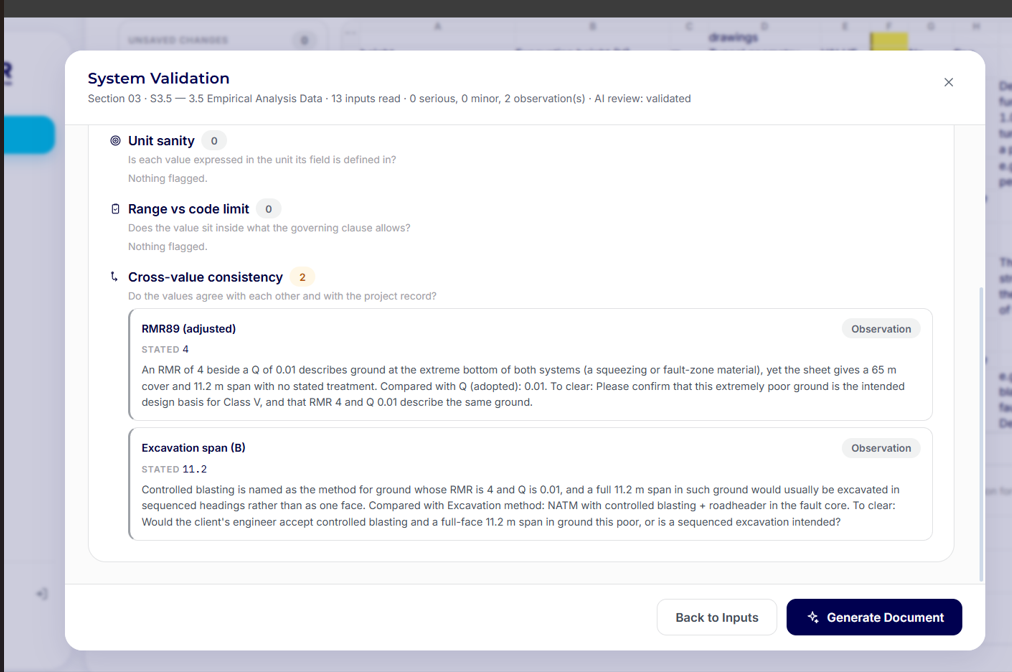
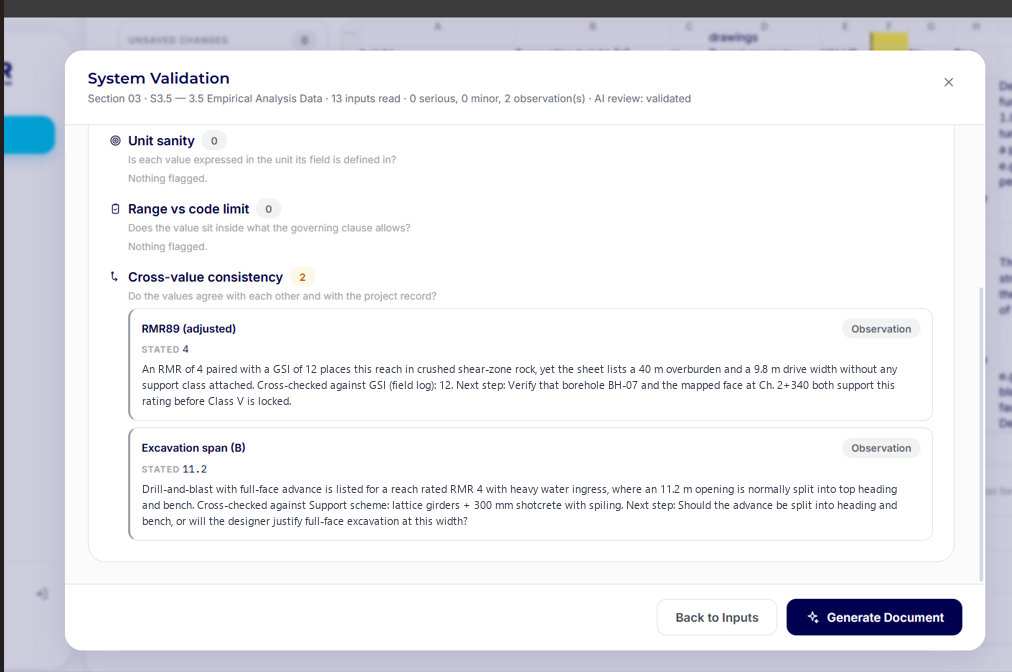
Update BeaverCaseStudy images: replace old screenshots with new versions for improved clarity and accuracy

Changed region(s): [[0.1225, 0.5312, 0.8883, 0.625], [0.1225, 0.7188, 0.8883, 0.7812]]

diff --git a/src/components/organisms/BeaverCaseStudy/BeaverCaseStudy.tsx b/src/components/organisms/BeaverCaseStudy/BeaverCaseStudy.tsx
@@ -456,7 +456,7 @@ export default function BeaverCaseStudy(_props: BeaverCaseStudyProps) {
           </p>
 
           <Shot
-            src="01_Screenshot1_Input_Sheet_Section3.1.png"
+            src="01_Screenshot1_Input_Sheet_Section3.1_v2.png"
             width={1112}
             height={572}
             title="Screenshot 1 — The input sheet."
@@ -464,7 +464,7 @@ export default function BeaverCaseStudy(_props: BeaverCaseStudyProps) {
             caption="Section 3.1 input sheet: locked metadata, a yellow Value column, and a repeating block for each reach."
           />
           <Shot
-            src="02_Screenshot2_Excel_Input_Step.png"
+            src="02_Screenshot2_Excel_Input_Step_v2.png"
             width={1917}
             height={931}
             title="Screenshot 2 — The Excel Input step."
@@ -472,7 +472,7 @@ export default function BeaverCaseStudy(_props: BeaverCaseStudyProps) {
             caption="Excel Input step for Section 1 — Introduction: sheet versions, validation state and the sheet grid."
           />
           <Shot
-            src="03_Screenshot3_Staged_Edits.png"
+            src="03_Screenshot3_Staged_Edits_v2.png"
             width={1917}
             height={925}
             title="Screenshot 3 — Staged edits."
@@ -488,7 +488,7 @@ export default function BeaverCaseStudy(_props: BeaverCaseStudyProps) {
             caption="The five validation stages shown to the engineer while the sheet is checked."
           />
           <Shot
-            src="05_Screenshot5_System_Validation.png"
+            src="05_Screenshot5_System_Validation_v2.png"
             width={1012}
             height={672}
             title="Screenshot 5 — System Validation."
@@ -496,7 +496,7 @@ export default function BeaverCaseStudy(_props: BeaverCaseStudyProps) {
             caption="System Validation for Section 3.5: 13 inputs read, 0 serious, 0 minor, 2 observations; AI review validated."
           />
           <Shot
-            src="06_Screenshot6_Review_Anchored_Comments.png"
+            src="06_Screenshot6_Review_Anchored_Comments_v2.png"
             width={1917}
             height={930}
             title="Screenshot 6 — Review with anchored comments."
@@ -512,7 +512,7 @@ export default function BeaverCaseStudy(_props: BeaverCaseStudyProps) {
             caption="Issue step for Section 3.1: internal V1 and client C0 numbered separately, with release actions."
           />
           <Shot
-            src="08_Screenshot8_Comparison_Real_Pages.png"
+            src="08_Screenshot8_Comparison_Real_Pages_v3.png"
             width={1917}
             height={922}
             title="Screenshot 8 — Comparison on real pages."
@@ -528,7 +528,7 @@ export default function BeaverCaseStudy(_props: BeaverCaseStudyProps) {
             caption="Admin log view with filters and a per-action trail (signed in, started session, requested download, previewed document)."
           />
           <Shot
-            src="10_Screenshot10_Generated_Output_Section3.10.png"
+            src="10_Screenshot10_Generated_Output_Section3.10_v3.png"
             width={1917}
             height={935}
             title="Screenshot 10 — Generated output."
@@ -536,7 +536,7 @@ export default function BeaverCaseStudy(_props: BeaverCaseStudyProps) {
             caption="Section 3.10 Assumptions & Limitations — tables rendered as repeating blocks (document V0)."
           />
           <Shot
-            src="11_Screenshot11_Generated_Figure_Q-Support_Chart.png"
+            src="11_Screenshot11_Generated_Figure_Q-Support_Chart_v2.png"
             width={1490}
             height={561}
             title="Screenshot 11 — Generated figures."
